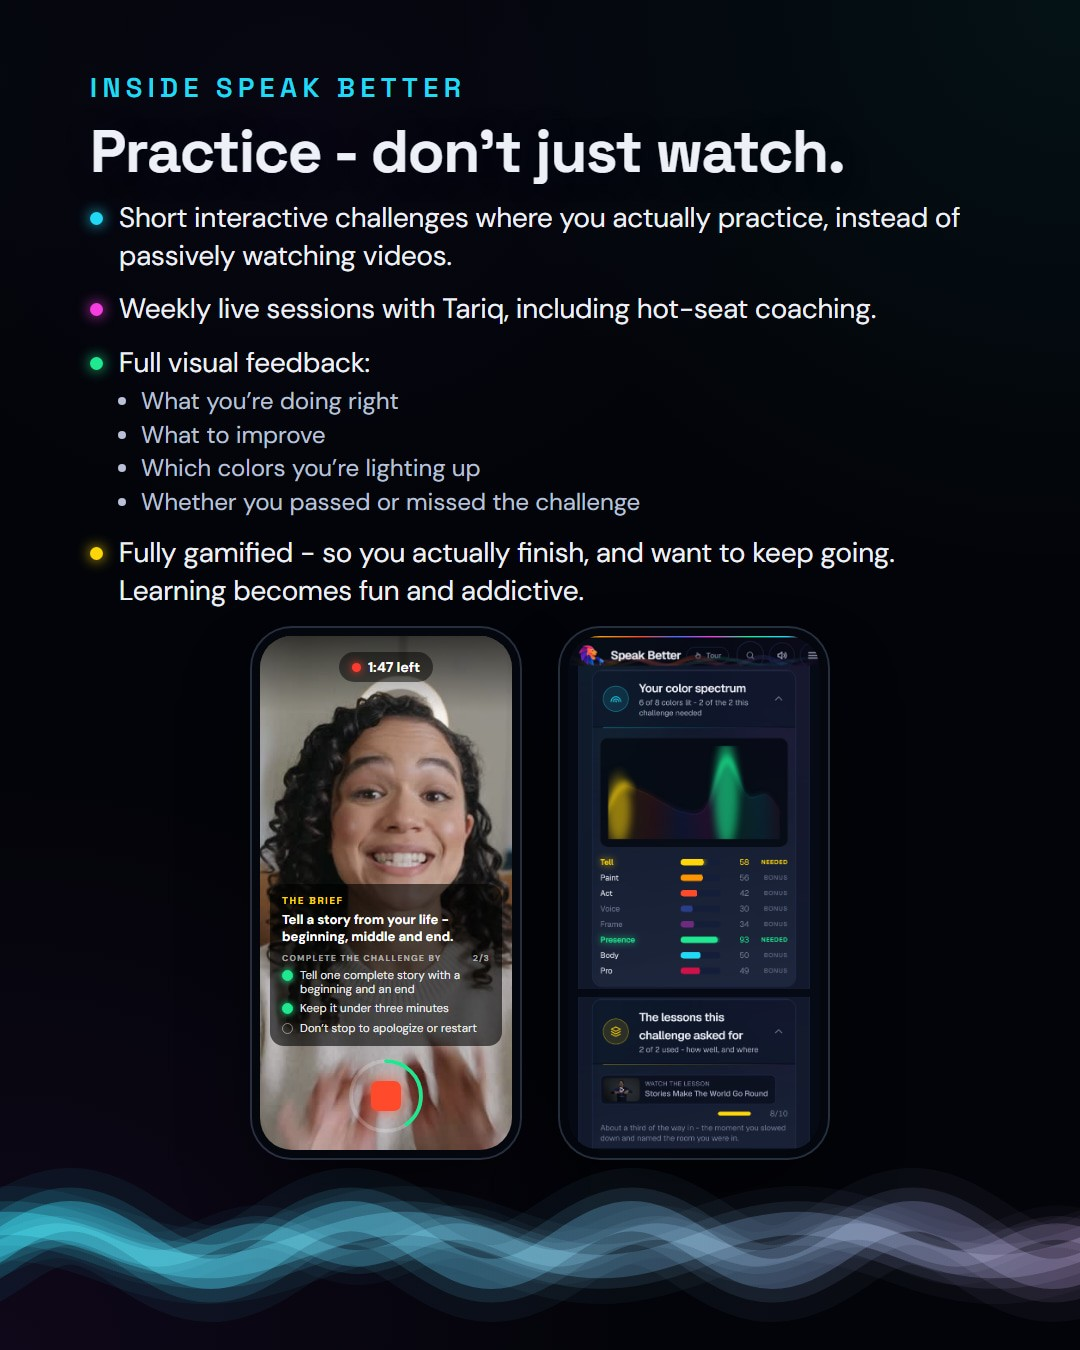
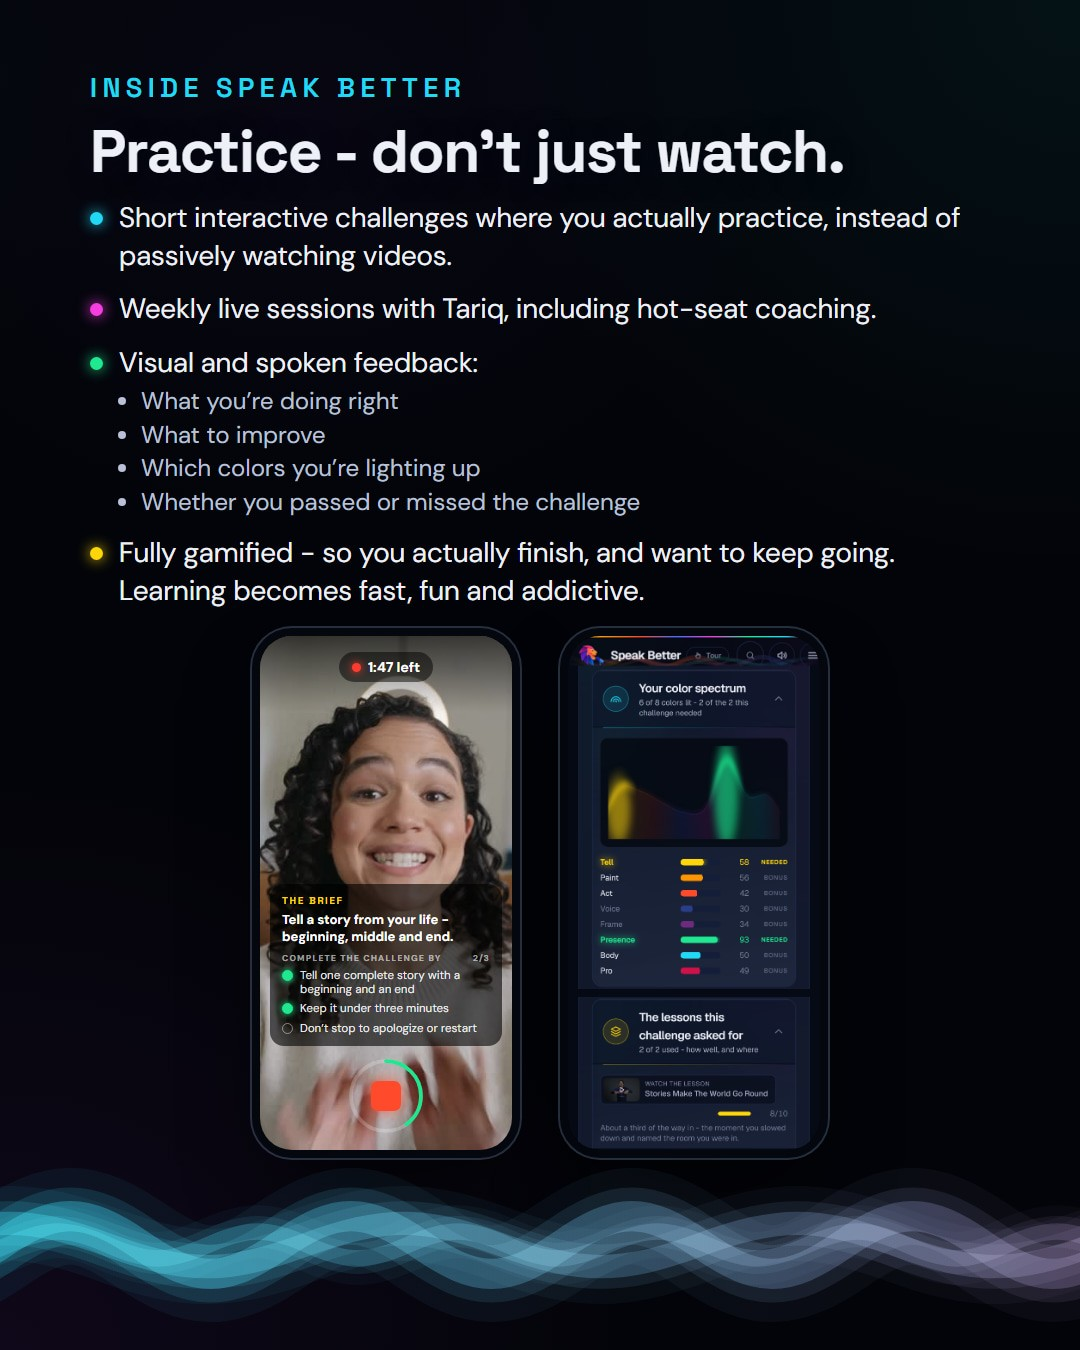
Phone deck viewer: Post 4 black - visual and spoken feedback

Changed region(s): [[0.0917, 0.2489, 0.4278, 0.28], [0.3361, 0.4356, 0.5806, 0.4667]]

diff --git a/public/d-BlBAiR0ZRDrG/post4-black.html b/public/d-BlBAiR0ZRDrG/post4-black.html
@@ -6,8 +6,8 @@ main{max-width:540px;margin:0 auto;padding:16px 16px 48px}h1{font-size:18px;marg
 .pano{overflow-x:auto;border-radius:8px}.pano img{height:260px;display:block}h2{font-size:14px;margin:22px 0 8px;color:#B9C0D8}.nav{position:absolute;top:50%;transform:translateY(-50%);width:46px;height:46px;border-radius:50%;border:1px solid rgba(255,255,255,.25);background:rgba(7,11,24,.72);color:#fff;font-size:26px;line-height:1;cursor:pointer;display:flex;align-items:center;justify-content:center;backdrop-filter:blur(6px)}
 .nav:disabled{opacity:.25;cursor:default}#prev{left:10px}#next{right:10px}.dots i{cursor:pointer;width:9px;height:9px}.count{text-align:center;font-size:13px;color:#8790AB;margin-top:-8px}</style></head><body><main>
 <a href="index.html">‹ All</a><h1>Post 4 · How to Tell Epic Stories - black</h1><small>15 slides · swipe like Instagram</small><small style="display:block;margin:6px 0">Version: <a href="post4.html">Glassy gradient</a> · <a href="post4-black.html">Black</a></small>
-<div class="wrap"><div class="car" id="c"><img src="post4-black/01.jpg?v=22" alt="Slide 1"><img src="post4-black/02.jpg?v=22" alt="Slide 2"><img src="post4-black/03.jpg?v=22" alt="Slide 3"><img src="post4-black/04.jpg?v=22" alt="Slide 4"><img src="post4-black/05.jpg?v=22" alt="Slide 5"><img src="post4-black/06.jpg?v=22" alt="Slide 6"><img src="post4-black/07.jpg?v=22" alt="Slide 7"><img src="post4-black/08.jpg?v=22" alt="Slide 8"><img src="post4-black/09.jpg?v=22" alt="Slide 9"><img src="post4-black/10.jpg?v=22" alt="Slide 10"><img src="post4-black/11.jpg?v=22" alt="Slide 11"><img src="post4-black/12.jpg?v=22" alt="Slide 12"><img src="post4-black/13.jpg?v=22" alt="Slide 13"><img src="post4-black/14.jpg?v=22" alt="Slide 14"><img src="post4-black/15.jpg?v=22" alt="Slide 15"></div><button class="nav" id="prev" aria-label="Previous slide">&#8249;</button><button class="nav" id="next" aria-label="Next slide">&#8250;</button></div><div class="dots" id="d"><i></i><i></i><i></i><i></i><i></i><i></i><i></i><i></i><i></i><i></i><i></i><i></i><i></i><i></i><i></i></div><p class="count" id="n"></p>
-<h2>The whole panorama (scroll sideways)</h2><div class="pano"><img src="post4-black/panorama.jpg?v=22" alt="Full panorama"></div>
+<div class="wrap"><div class="car" id="c"><img src="post4-black/01.jpg?v=23" alt="Slide 1"><img src="post4-black/02.jpg?v=23" alt="Slide 2"><img src="post4-black/03.jpg?v=23" alt="Slide 3"><img src="post4-black/04.jpg?v=23" alt="Slide 4"><img src="post4-black/05.jpg?v=23" alt="Slide 5"><img src="post4-black/06.jpg?v=23" alt="Slide 6"><img src="post4-black/07.jpg?v=23" alt="Slide 7"><img src="post4-black/08.jpg?v=23" alt="Slide 8"><img src="post4-black/09.jpg?v=23" alt="Slide 9"><img src="post4-black/10.jpg?v=23" alt="Slide 10"><img src="post4-black/11.jpg?v=23" alt="Slide 11"><img src="post4-black/12.jpg?v=23" alt="Slide 12"><img src="post4-black/13.jpg?v=23" alt="Slide 13"><img src="post4-black/14.jpg?v=23" alt="Slide 14"><img src="post4-black/15.jpg?v=23" alt="Slide 15"></div><button class="nav" id="prev" aria-label="Previous slide">&#8249;</button><button class="nav" id="next" aria-label="Next slide">&#8250;</button></div><div class="dots" id="d"><i></i><i></i><i></i><i></i><i></i><i></i><i></i><i></i><i></i><i></i><i></i><i></i><i></i><i></i><i></i></div><p class="count" id="n"></p>
+<h2>The whole panorama (scroll sideways)</h2><div class="pano"><img src="post4-black/panorama.jpg?v=23" alt="Full panorama"></div>
 <small style="display:block;margin-top:18px">Private link - please don't share.</small></main>
 <script>const c=document.getElementById("c"),d=[...document.querySelectorAll("#d i")],p=document.getElementById("prev"),x=document.getElementById("next"),n=document.getElementById("n");
 const at=()=>Math.round(c.scrollLeft/c.clientWidth),go=i=>c.scrollTo({left:Math.max(0,Math.min(d.length-1,i))*c.clientWidth,behavior:"smooth"});
